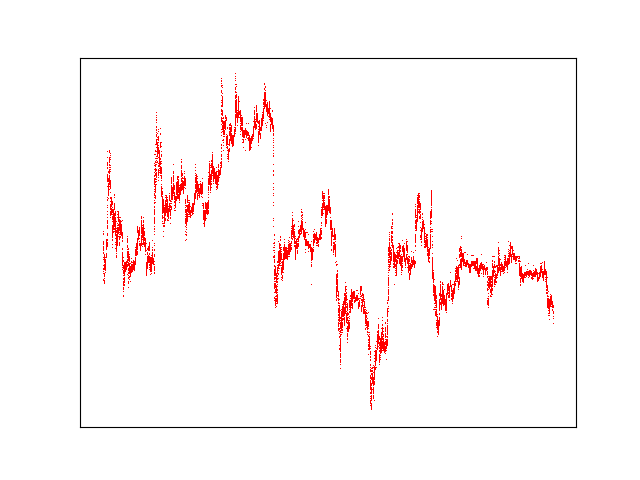
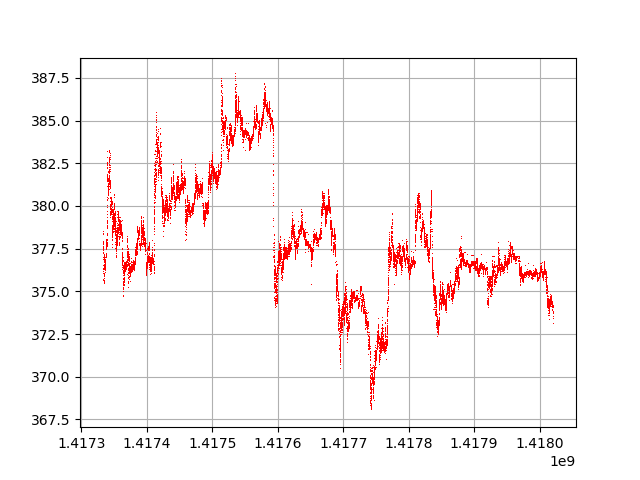
Added x and y axis data to ful data sets

diff --git a/graph_cvs_data.py b/graph_cvs_data.py
@@ -19,7 +19,7 @@ times = []
 prices = []
 
 # read csv file
-with open(new_data, 'r') as csvfile:
+with open(original_data, 'r') as csvfile:
     # create the csv reader
     csvreader = csv.reader(csvfile)
 
@@ -31,6 +31,6 @@ with open(new_data, 'r') as csvfile:
 plt.plot(times, prices,'r,')
 plt.grid(True)
 frame1 = plt.gca()
-frame1.axes.get_xaxis().set_visible(False)
-frame1.axes.get_yaxis().set_visible(False)
-plt.savefig('new_data_full_graph.png')
+#frame1.axes.get_xaxis().set_visible(False)
+#frame1.axes.get_yaxis().set_visible(False)
+plt.savefig('original_data_full_graph.png')
